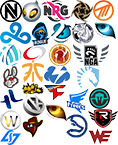
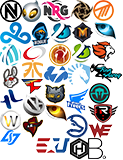
New team flairs: Meta Athena, LG Evil, Runaway, EUnited, Blank, Hammers, Laser Kittenz; misc changes

diff --git a/source/styles.css b/source/styles.css
@@ -952,7 +952,7 @@ body:not(.res) .expando-button {
 }
 
 .entry .buttons li a {
-	color: rgba(4, 46, 84, .5);
+	color: #8196A9;
 	font-size: 12px;
 	font-weight: normal;
 	margin: 2px 8px;
@@ -1438,7 +1438,7 @@ body>.content .link.compressed .midcol {
 }
 
 [lang^=en] .side .flairselector h2:after {
-	color: rgba(4, 46, 84, .5);
+	color: #8196A9;
 	content: "Choose an icon to display next to your username on posts and comments.";
 	display: block;
 	font-size: 13px;
@@ -1982,8 +1982,9 @@ div.titlebox span.number:after {
 }
 
 #search input[type=text]:focus, #search input[type=text]:active {
-	background: rgba(255,255,255,.1);
+	background: #FFF;
 	border-radius: 1px 1px 0 0;
+	color: #042E54;
 	width: 100%;
 }
 
@@ -3731,12 +3732,9 @@ only screen and (-webkit-min-device-pixel-ratio: 2),
 only screen and (min-device-pixel-ratio: 2), only screen and (min-resolution: 2dppx) {
 	.flair-fan, .md a[href*="#team-"] {
 		background: url(%%flairs-teams-2x%%) no-repeat;
-		background-size: 118px 145px;
+		background-size: 123px 160px;
 	}
-	.flair-faze {
-		width: 21px;
-	}
-	.flair-col {
+	.flair-complexity {
 		width: 23px;
 	}
 }
@@ -3747,18 +3745,23 @@ only screen and (min-device-pixel-ratio: 2), only screen and (min-resolution: 2d
 
 .flair-cloud-9, .md a[href*="cloud-9"] {
 	background-position: 0 -22px;
+	height: 22px;
 	width: 31px;
 }
 .flair-team-celestial, .md a[href*="team-celestial"] {
 	background-position: 0 -44px;
+	height: 21px;
+	width: 21px;
 }
 .flair-misfits, .md a[href*="misfits"] {
-	background-position: 0 -66px;
+	background-position: 0 -65px;
+	height: 23px;
 	width: 19px;
 }
 .flair-dignitas, .md a[href*="dignitas"] {
 	background-position: -22px 0;
 	width: 19px;
+	
 }
 .flair-rogue, .md a[href*="rogue"] {
 	background-position: -31px -22px;
@@ -3771,45 +3774,46 @@ only screen and (min-device-pixel-ratio: 2), only screen and (min-resolution: 2d
 	width: 23px;
 }
 .flair-fnatic, .md a[href*="fnatic"] {
-	background-position: -22px -60px;
-	width: 22px;
+	background-position: -21px -60px;
+	height: 18px;
 }
 .flair-nrg, .md a[href*="nrg"] {
 	background-position: -41px 0;
 	width: 30px;
 }
-.flair-luminosity, .md a[href*="luminosity"] {
-	background-position: -50px -22px;
-	height: 21px;
+.flair-lg-loyal, .md a[href*="lg-loyal"] {
+	background-position: -51px -22px;
+	width: 21px;
 }
 .flair-invictus, .md a[href*="invictus"] {
-	background-position: -48px -44px;
-	width: 23px;
+	background-position: -49px -44px;
 }
 .flair-tempo-storm, .md a[href*="tempo-storm"] {
 	background-position: -44px -66px;
-	height: 19px;
-	width: 26px;
+	height: 17px;
+	width: 24px;
 }
 .flair-ninjas-in-pyjamas, .md a[href*="ninjas-in-pyjamas"] {
 	background-position: -71px 0;
 }
 .flair-liquid, .md a[href*="liquid"] {
-	background-position: -77px -66px;
+	background-position: -68px -63px;
 }
 .flair-lunatic-hai, .md a[href*="lunatic-hai"] {
 	background-position: 0 -89px;
-	height: 21px;
+	height: 20px;
 }
 .flair-faze, .md a[href*="faze"] {
-	background-position: -44px -84px;
+	background-position: -21px -79px;
 	height: 15px;
+	width: 22px;
 }
 .flair-freecs-blue, .md a[href*="freecs-blue"] {
 	background-position: -66px -90px;
+	height: 24px;
 }
 .flair-immortals, .md a[href*="immortals"] {
-	background-position: -89px -88px;
+	background-position: -89px -83px;
 	height:  21px;
 	width: 21px;
 }
@@ -3819,16 +3823,17 @@ only screen and (min-device-pixel-ratio: 2), only screen and (min-resolution: 2d
 	width: 21px;
 }
 .flair-luxury-watch-red, .md a[href*="luxury-watch-red"] {
-	background-position: 0 -109px;
-	height: 21px;
+	background-position: 0 -110px;
+	height: 20px;
 }
 .flair-vici-gaming, .md a[href*="vici-gaming"] {
-	background-position: -23px -97px;
-	height: 19px;
+	background-position: -23px -95px;
+	height: 21px;
 }
 .flair-kongdoo-panthera, .md a[href*="kongdoo-panthera"] {
-	background-position: -44px -104px;
+	background-position: -45px -104px;
 	height: 17px;
+	width: 22px;
 }
 .flair-ldlc, .md a[href*="ldlc"] {
 	background-position: -67px -114px;
@@ -3836,23 +3841,63 @@ only screen and (min-device-pixel-ratio: 2), only screen and (min-resolution: 2d
 	width: 21px;
 }
 .flair-rise, .md a[href*="rise"] {
-	background-position: -88px -109px;
+	background-position: -88px -104px;
+	border-radius: 0 0 0 50%;
 	height: 19px;
 	width: 30px;
 }
 .flair-kongdoo-uncia, .md a[href*="kongdoo-uncia"] {
 	background-position: -94px -22px;
 	height: 17px;
+	width: 22px;
 }
 .flair-renegades, .md a[href*="renegades"] {
-	background-position: -22px -117px;
-	width: 21px;
-	height: 20px;
+	background-position: -22px -116px;
 }
 .flair-world-elite-white, .md a[href*="world-elite-white"] {
-	background-position: -88px -130px;
-	height: 14px;
+	background-position: -88px -123px;
+	height: 15px;
+	width: 25px;
+}
+.flair-meta-athena, .md a[href*="meta-athena"] {
+	background-position: -72px -22px;
+	height: 21px;
+	width: 21px;
+}
+.flair-lg-evil, .md a[href*="lg-evil"] {
+	background-position: -71px -43px;
+	height: 20px;
+	width: 21px;
+}
+.flair-selfless, .md a[href*="selfless"] {
+	background-position: -92px -41px;
+	height: 20px;
 	width: 24px;
+}
+.flair-runaway, .md a[href*="runaway"] {
+	background-position: -90px -63px;
+	height: 20px;
+	width: 32px;
+}
+.flair-eunited, .md a[href*="eunited"] {
+	background-position: -34px -138px;
+	height: 15px;
+	width: 36px
+}
+.flair-blank, .md a[href*="blank"] {
+	background-position: -89px -138px;
+	height: 21px;
+	width: 18px;
+}
+.flair-hammers, .md a[href*="hammers"] {
+	background-position: -70px -138px;
+	height: 21px;
+	width: 19px;
+}
+.flair-laser-kittenz, .md a[href*="laser-kittenz"] {
+	background-position: -45px -84px;
+	height: 19px;
+	width: 21px;
 }
 
 /* User flairs for ranks */
@@ -4589,6 +4634,7 @@ body.res #search #searchexpando {
 	border: none;
 	border-radius: 1px;
 	margin: 0 0 16px;
+	overflow-y: visible;
 	padding: 13px 16px;
 	position: relative;
 }
